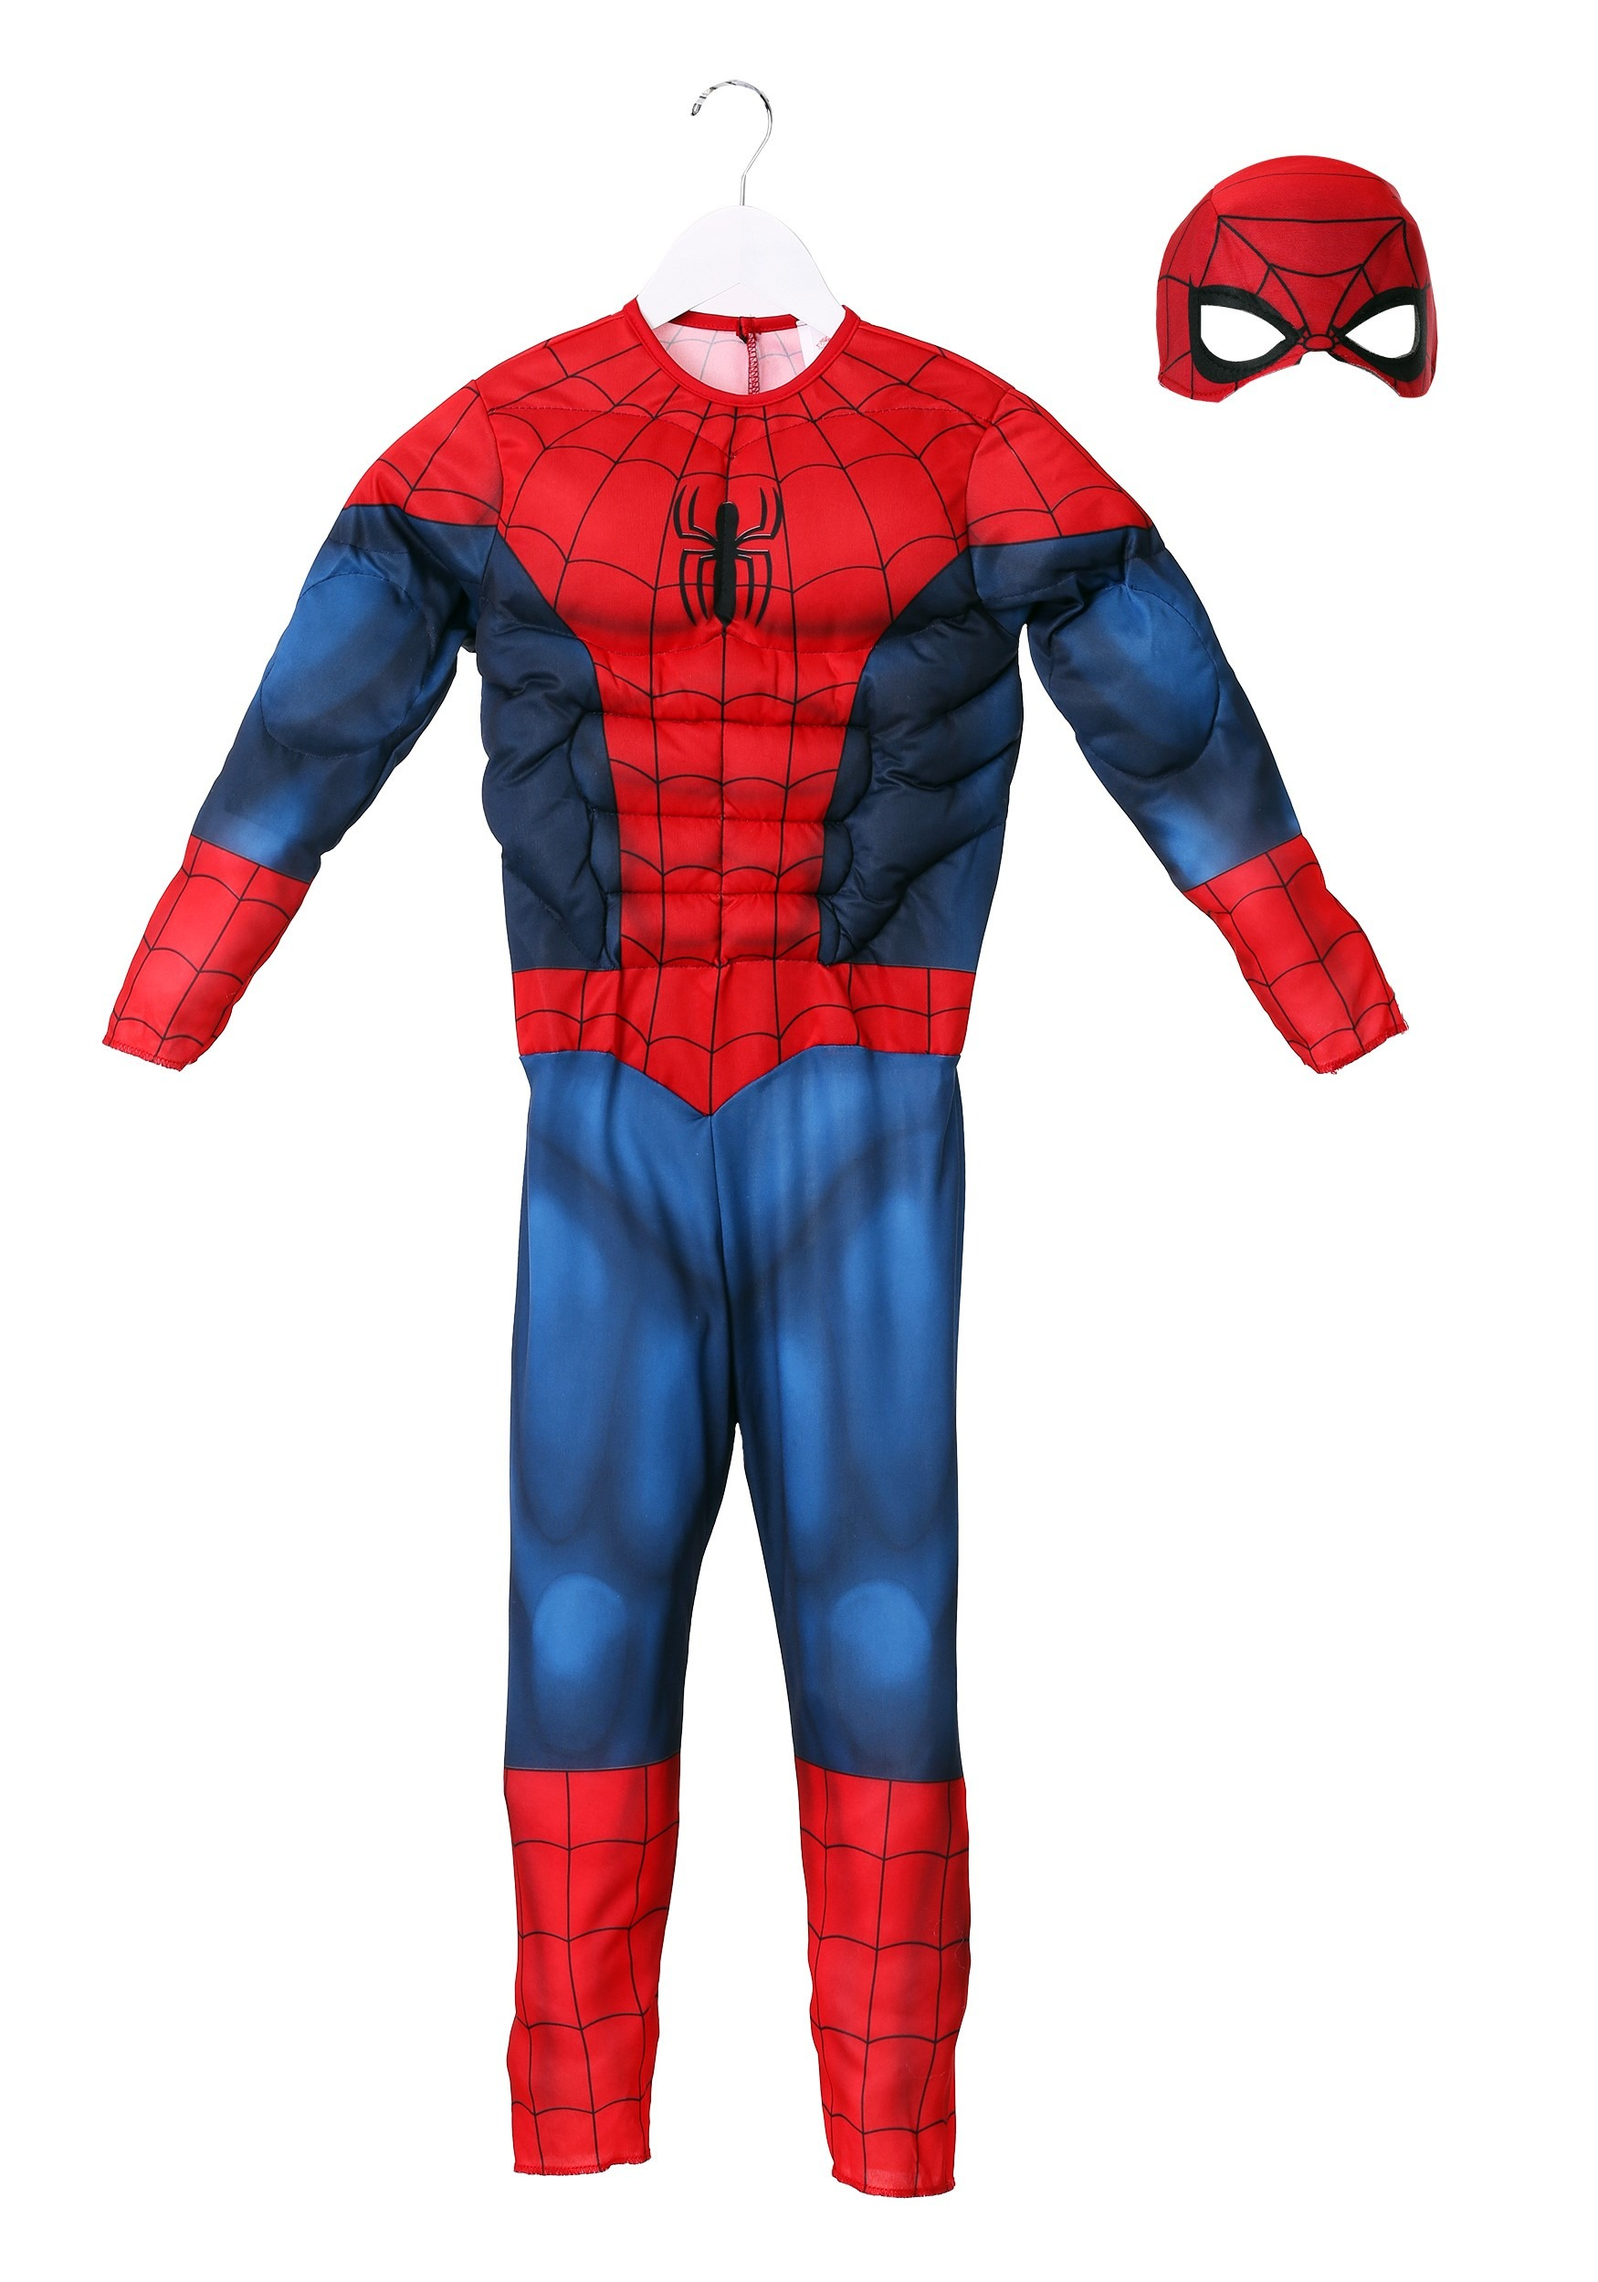
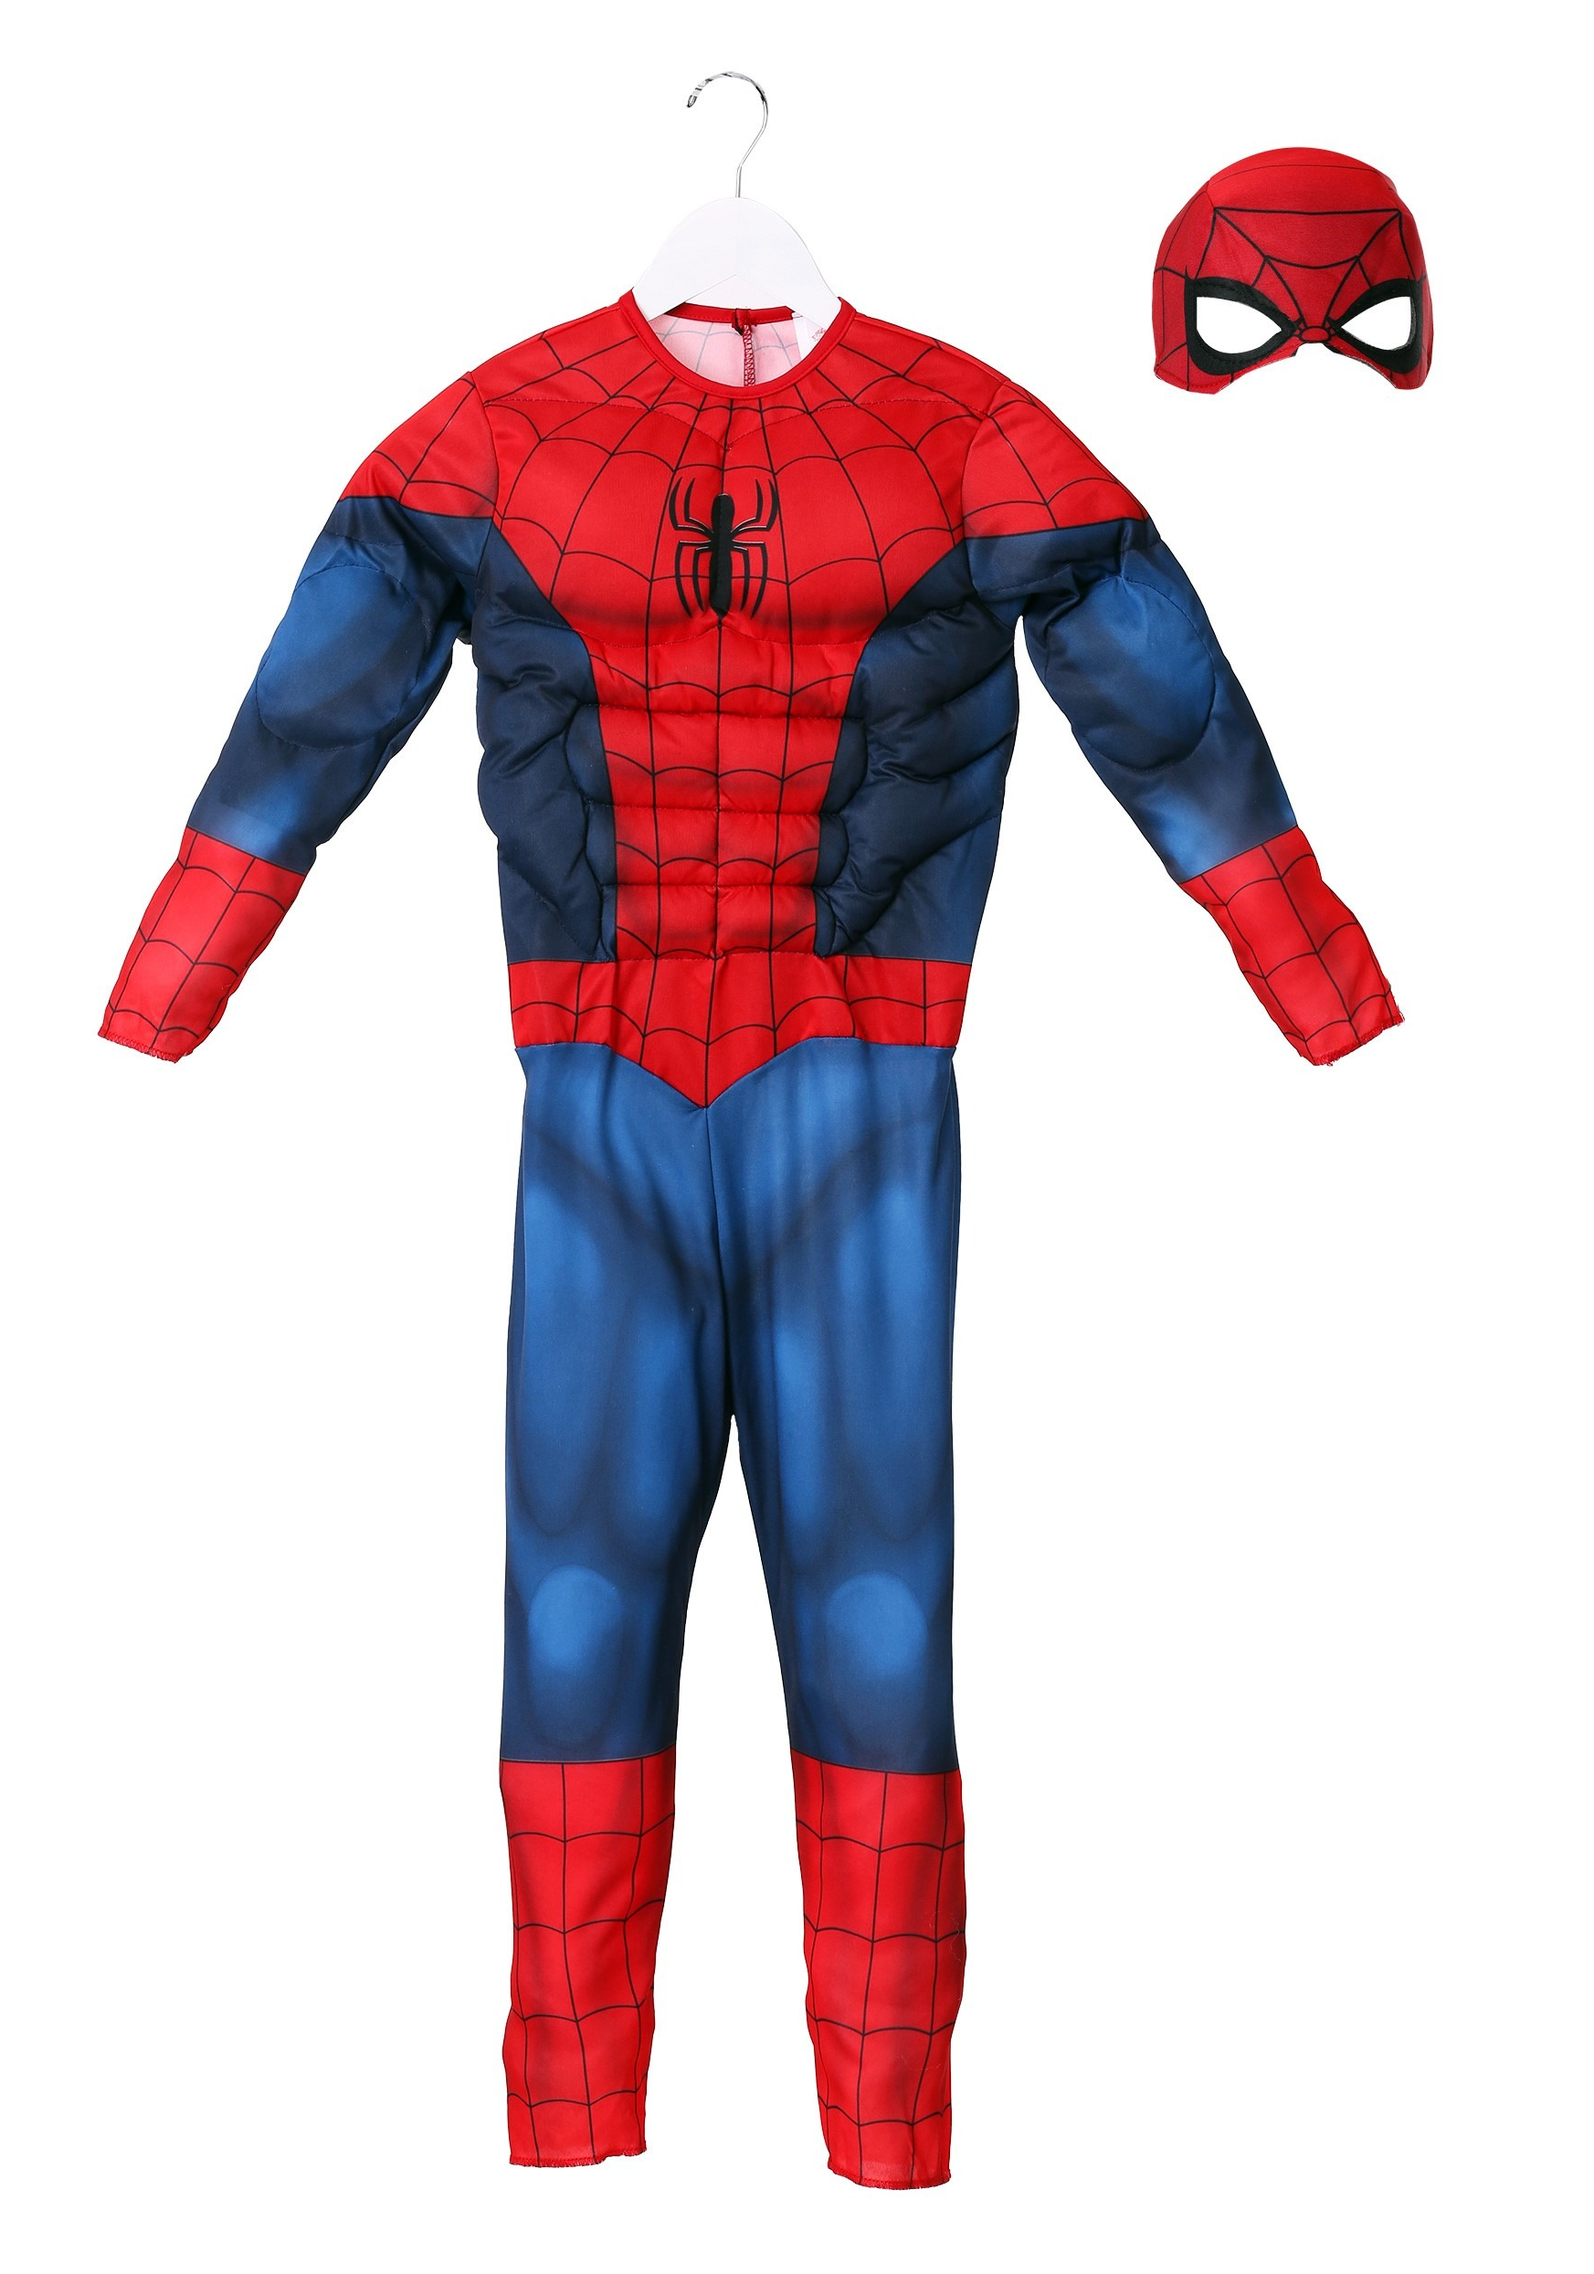
finished carousel

diff --git a/index.html b/index.html
@@ -77,10 +77,10 @@
                 <img src="./images/size-image-mobile.png" class="d-block w-100" alt="...">
               </div>
               <div class="carousel-item">
-                <img src="./images/size-mobile-image1.png" class="d-block w-100" alt="...">
+                <img src="./images/size-image-mobile2.png" class="d-block w-100" alt="...">
               </div>
               <div class="carousel-item">
-                <img src="./images/size-image-mobile.png" class="d-block w-100" alt="...">
+                <img src="./images/size-image-mobile3.png" class="d-block w-100" alt="...">
               </div>
             </div>
           </div>
